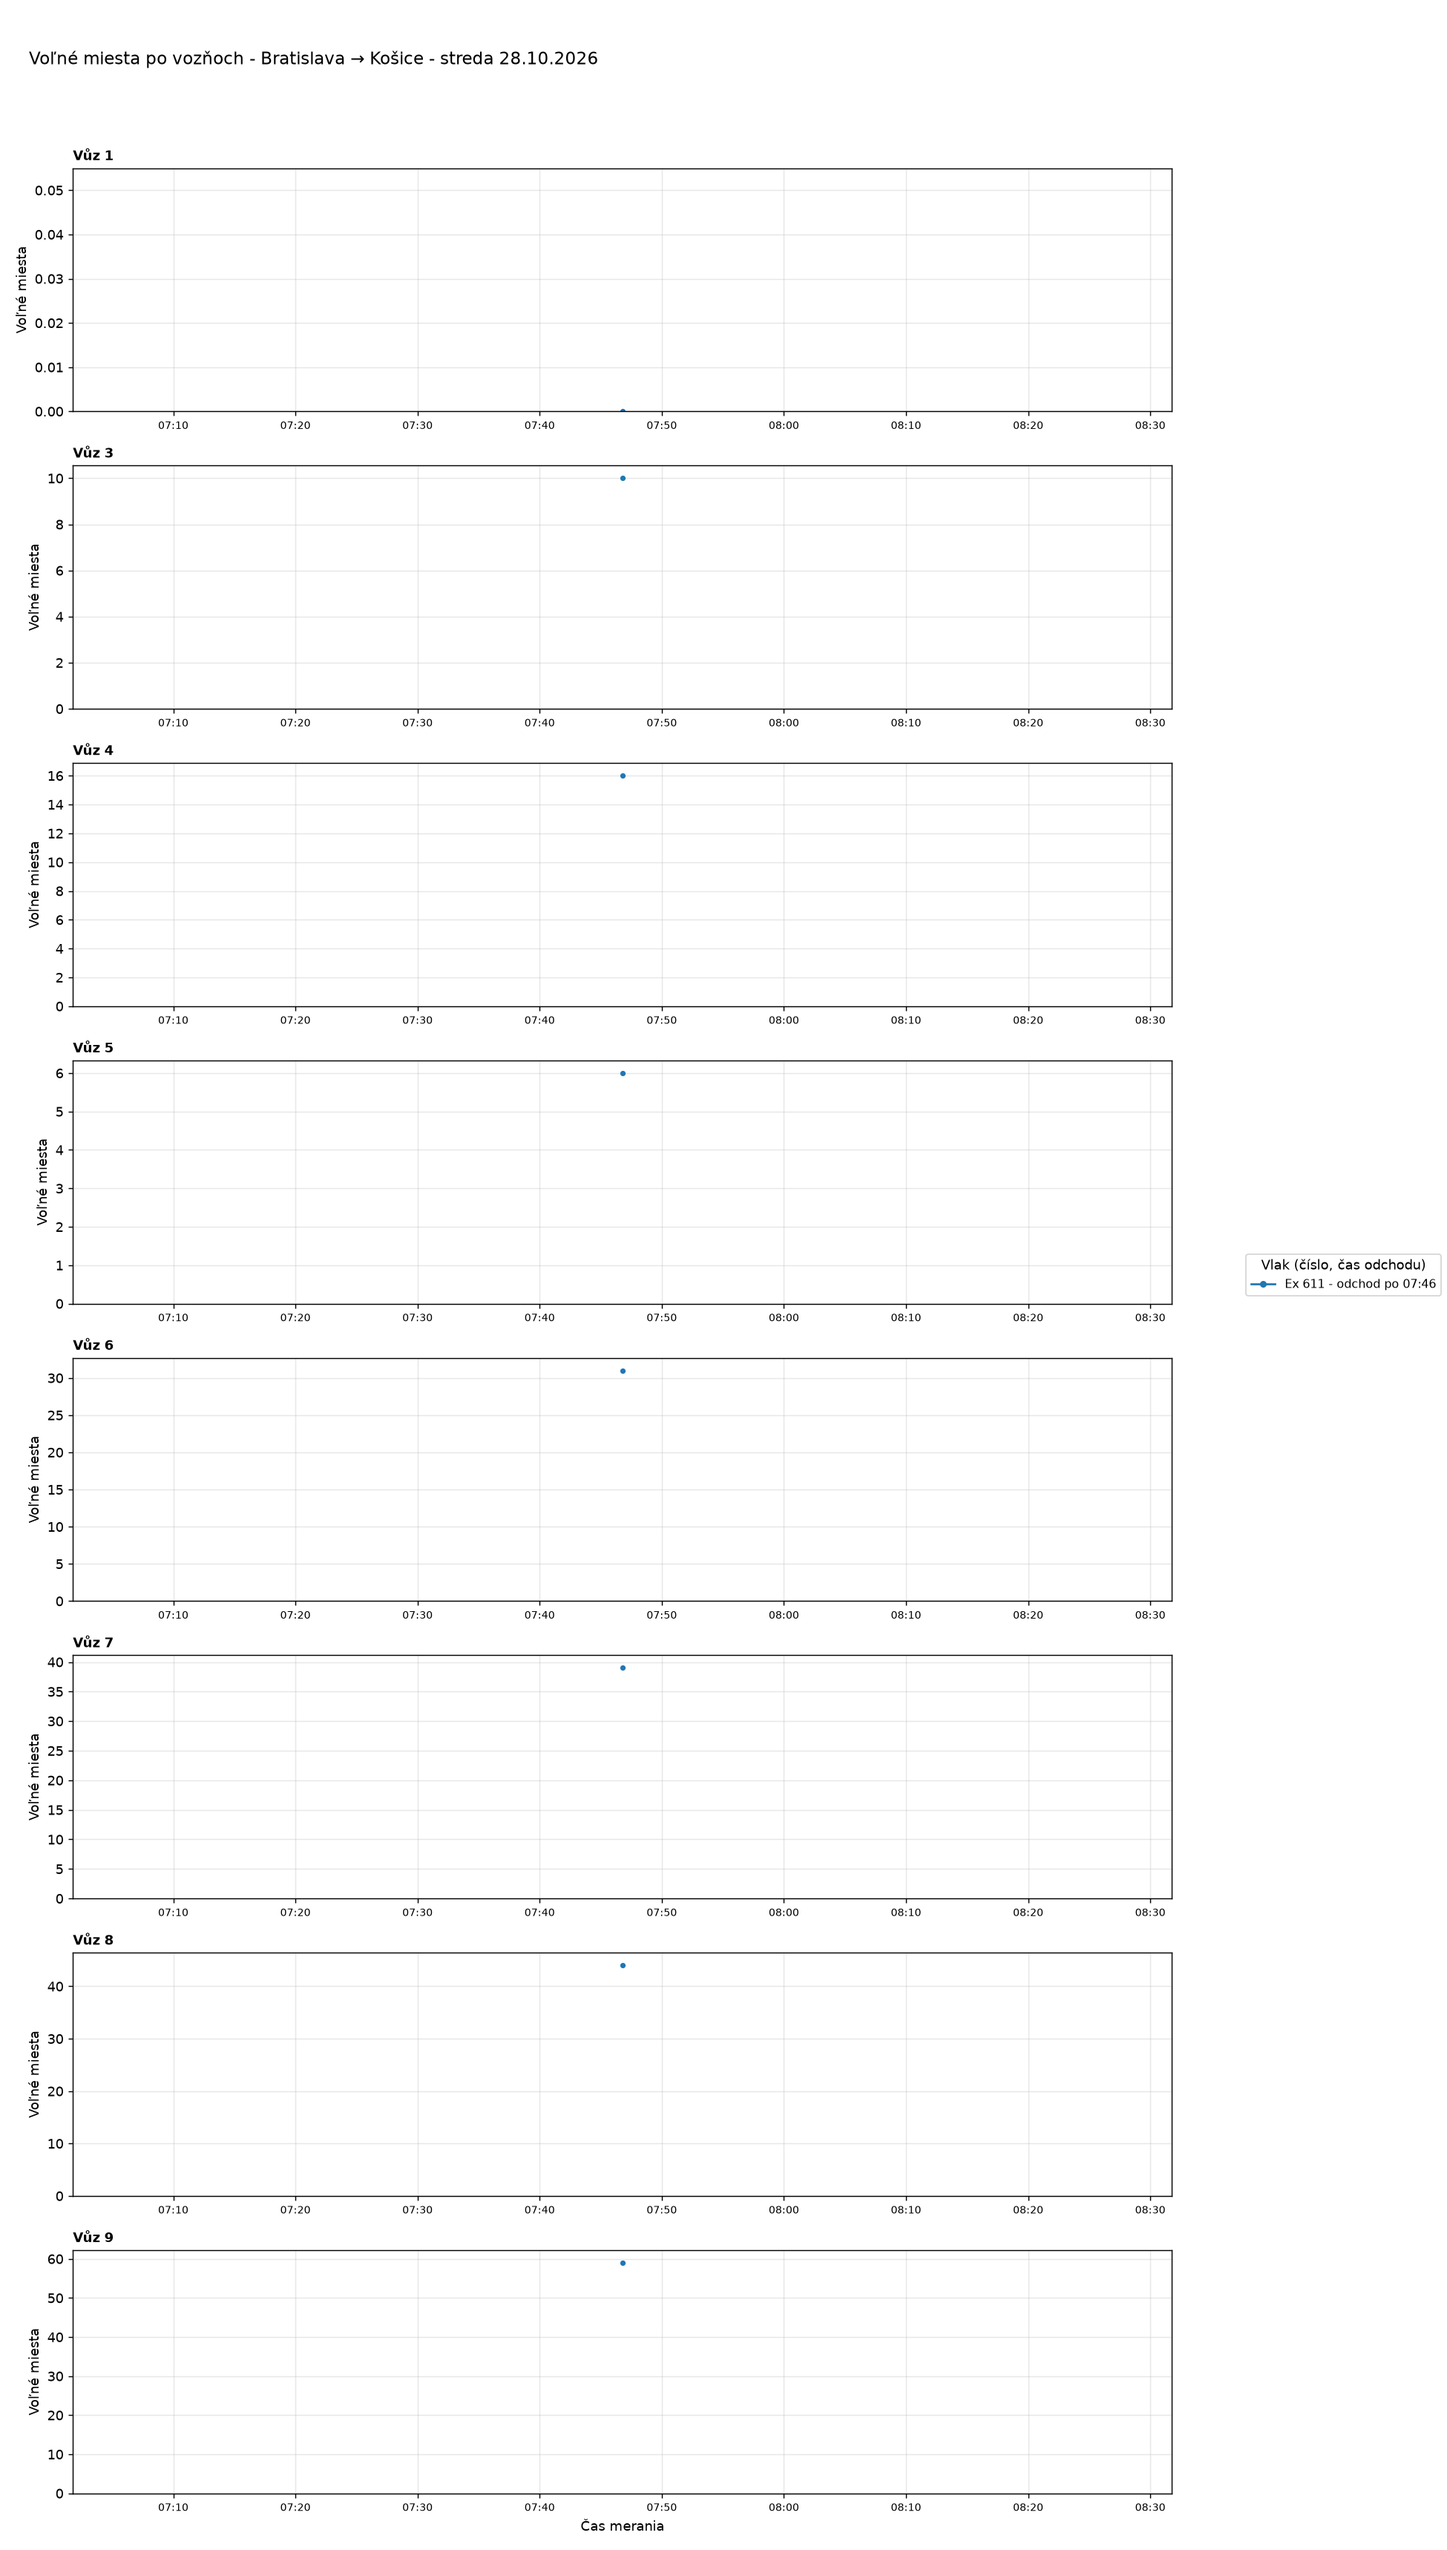
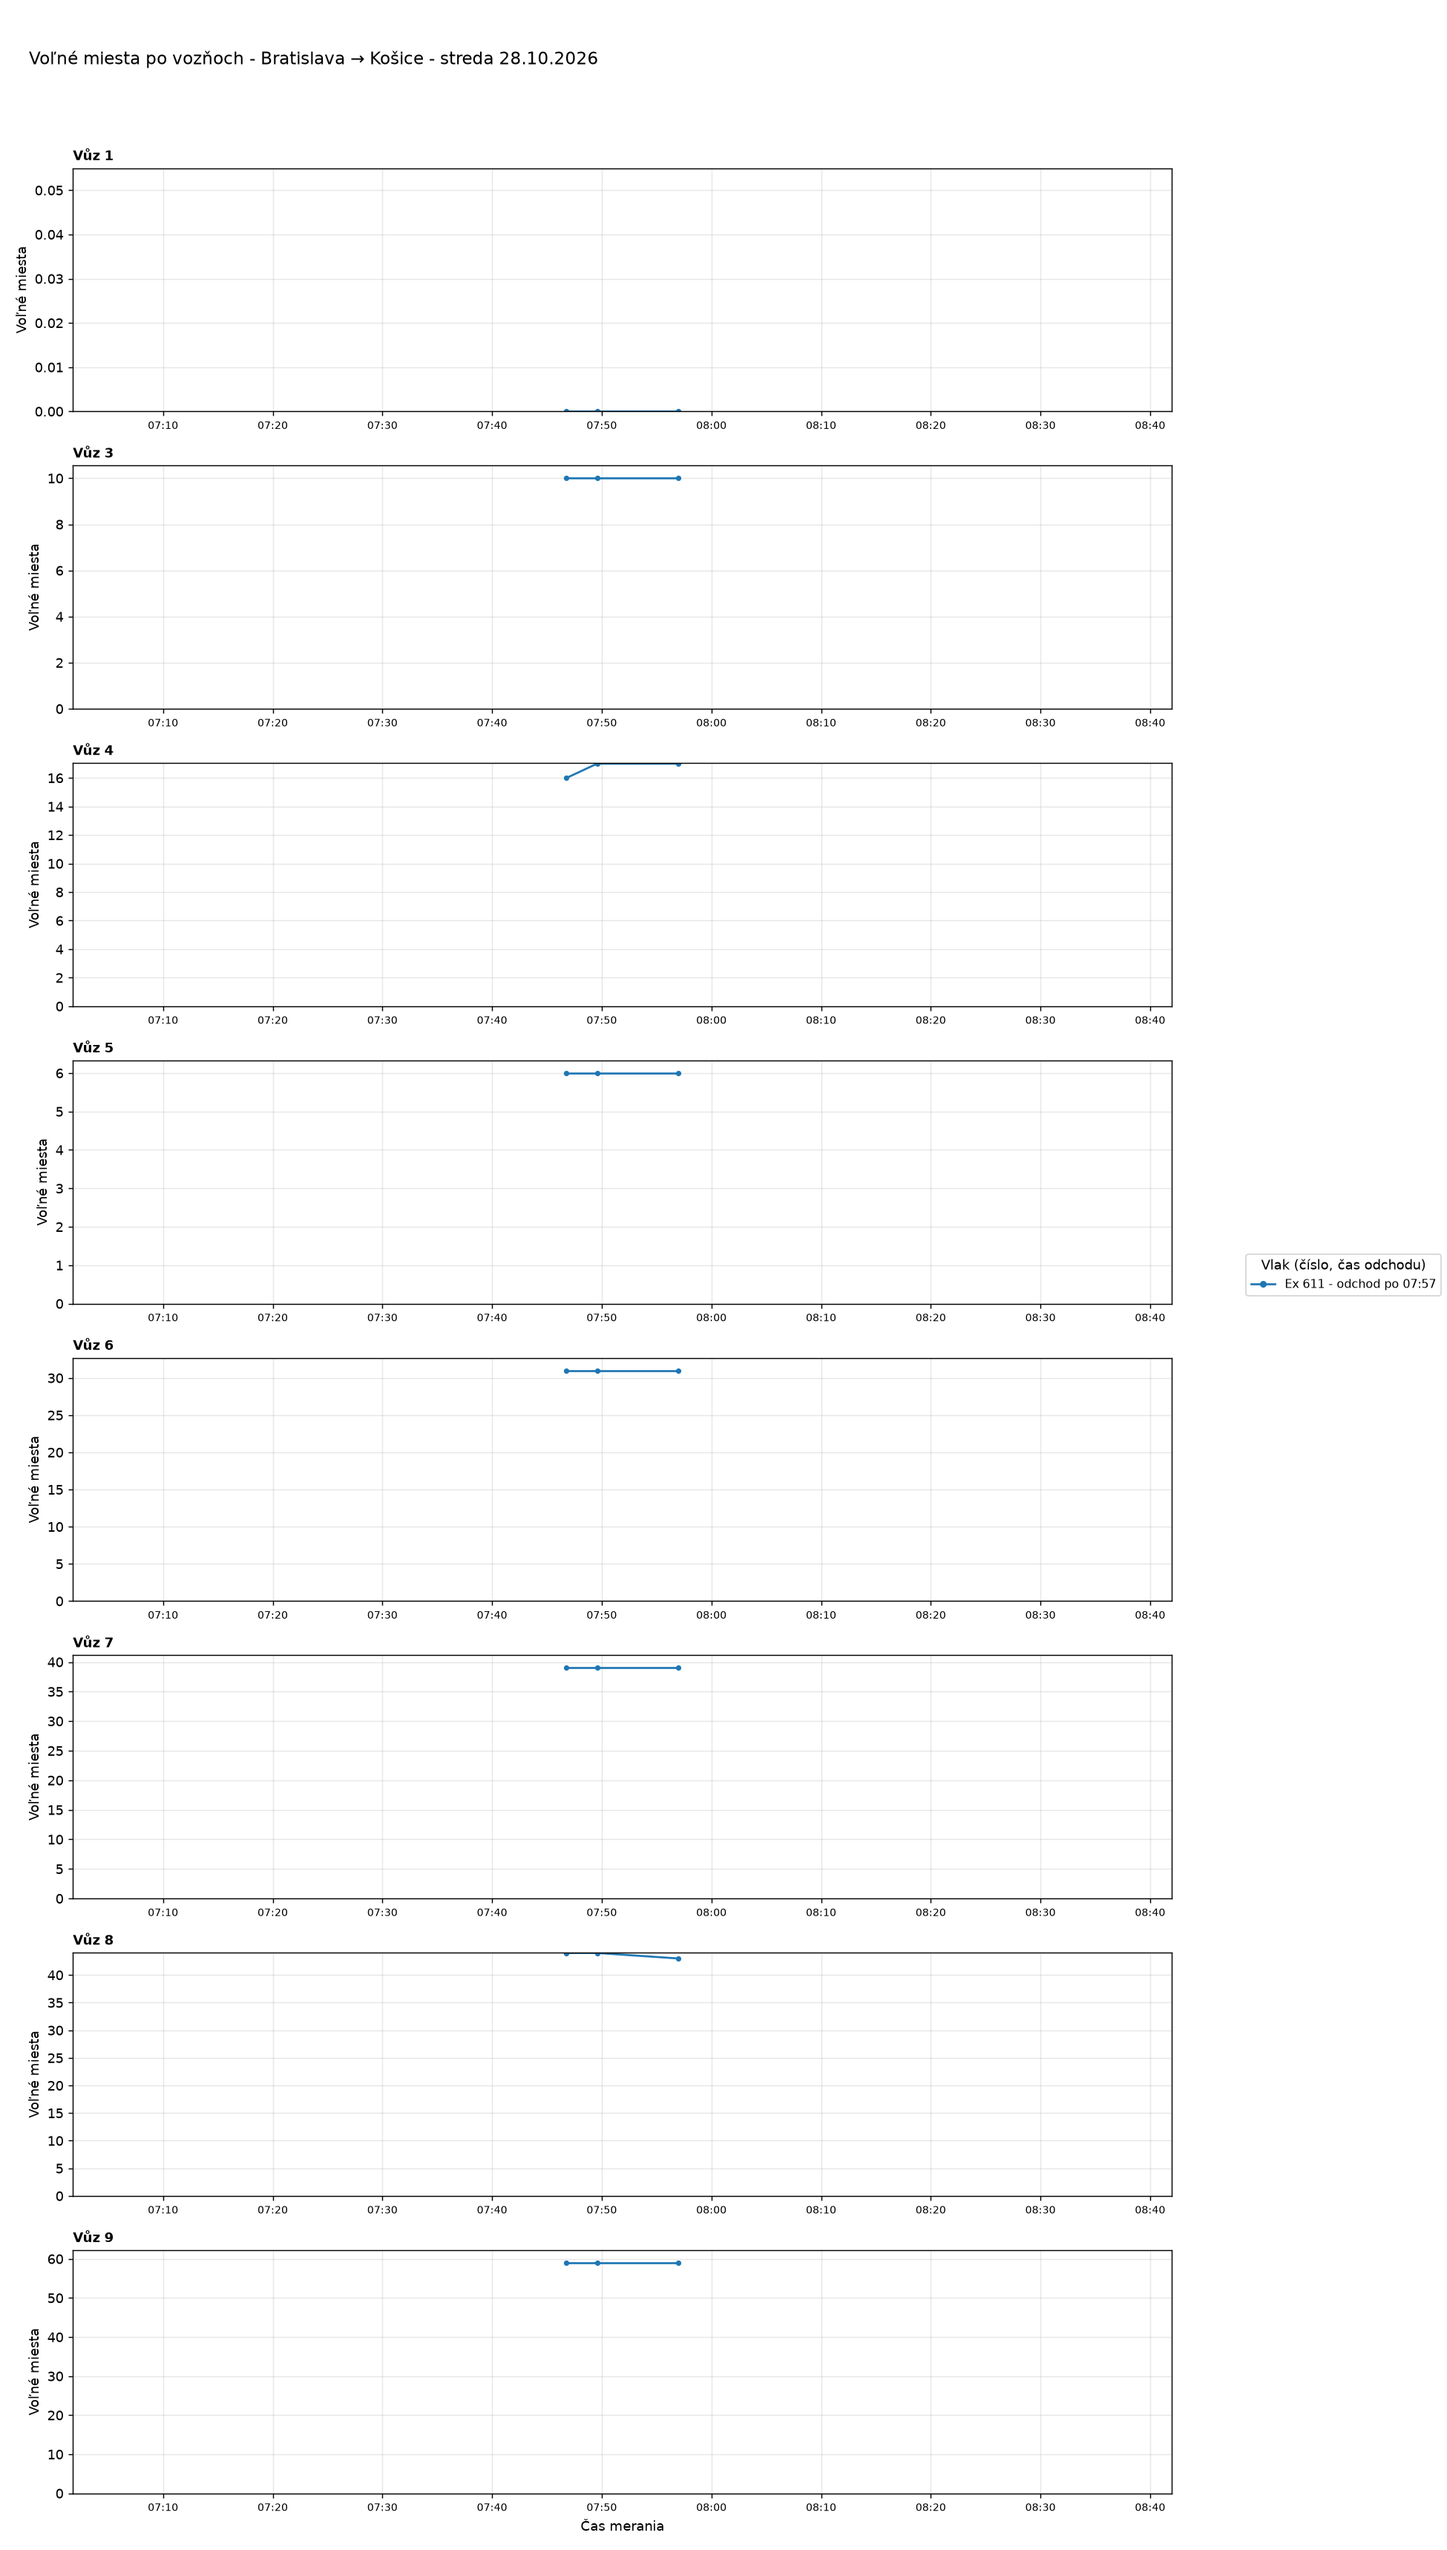
Aktualizácia grafov 2026-10-28 08:05

Changed region(s): [[0.0308, 0.7785, 0.0615, 0.8097]]

diff --git a/index.html b/index.html
@@ -37,7 +37,7 @@ details.trasa>summary{cursor:pointer;font-weight:600;font-size:1.1rem;padding:8p
 <body>
 <main>
 <h1>Voľné miesta vo vlakoch</h1>
-<p class="muted">Posledné meranie: 28.10.2026 07:47 ·
+<p class="muted">Posledné meranie: 28.10.2026 07:57 ·
 <a href="data/obsadenost_data.csv">stiahnuť dáta (CSV)</a></p>
 <nav class="nav"><a href="#suhrn">Súhrn</a><a href="#statistiky">Štatistiky</a><a href="#historia">História grafov</a></nav>
 
@@ -46,9 +46,9 @@ details.trasa>summary{cursor:pointer;font-weight:600;font-size:1.1rem;padding:8p
 <div class="tablewrap"><table>
 <thead><tr><th>Deň</th><th>Trasa</th><th>Meraní</th><th>Vlakov</th><th>Čas meraní</th></tr></thead>
 <tbody>
-<tr><td><a href="#dBA-VR-2026-10-28">streda 28.10.2026</a></td><td>Bratislava → Vrútky</td><td>80</td><td>4</td><td>00:03-07:45</td></tr>
-<tr><td><a href="#dBA-KE-2026-10-28">streda 28.10.2026</a></td><td>Bratislava → Košice</td><td>1</td><td>1</td><td>07:46-07:46</td></tr>
-<tr><td><a href="#dKE-BA-2026-10-28">streda 28.10.2026</a></td><td>Košice → Bratislava</td><td>1</td><td>1</td><td>07:47-07:47</td></tr>
+<tr><td><a href="#dBA-VR-2026-10-28">streda 28.10.2026</a></td><td>Bratislava → Vrútky</td><td>81</td><td>4</td><td>00:03-07:54</td></tr>
+<tr><td><a href="#dBA-KE-2026-10-28">streda 28.10.2026</a></td><td>Bratislava → Košice</td><td>3</td><td>1</td><td>07:46-07:57</td></tr>
+<tr><td><a href="#dKE-BA-2026-10-28">streda 28.10.2026</a></td><td>Košice → Bratislava</td><td>3</td><td>2</td><td>07:47-07:57</td></tr>
 <tr><td><a href="#dBA-VR-2026-10-27">utorok 27.10.2026</a></td><td>Bratislava → Vrútky</td><td>99</td><td>11</td><td>00:01-23:59</td></tr>
 <tr><td><a href="#dBA-VR-2026-10-26">pondelok 26.10.2026</a></td><td>Bratislava → Vrútky</td><td>88</td><td>14</td><td>00:06-23:50</td></tr>
 <tr><td><a href="#dBA-VR-2026-10-25">nedeľa 25.10.2026</a></td><td>Bratislava → Vrútky</td><td>101</td><td>15</td><td>00:01-23:56</td></tr>
